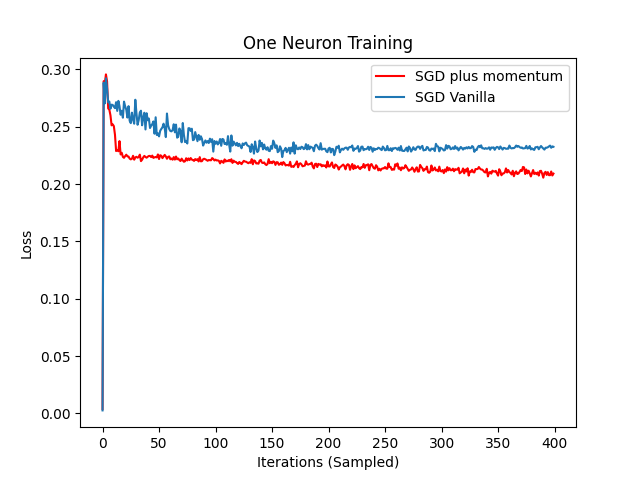
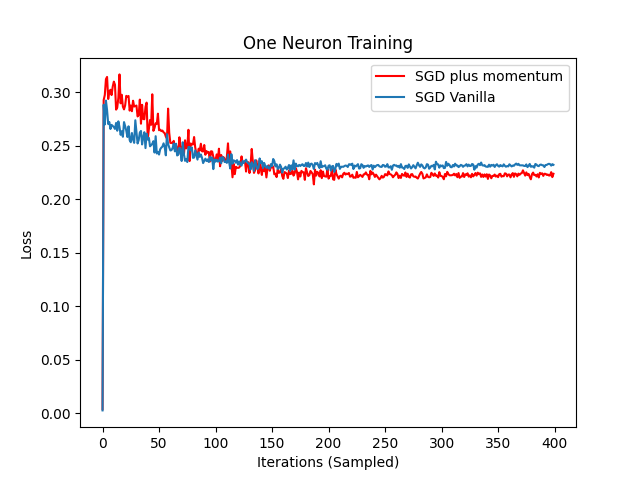
modified

diff --git a/hw/hw3/cgp1.0.8/one_neuron_classifier_sgd_plus.py b/hw/hw3/cgp1.0.8/one_neuron_classifier_sgd_plus.py
@@ -6,7 +6,6 @@ Last Modified: 5 Feb 2022
 
 import random
 import numpy as np
-import sys
 import operator
 import matplotlib.pyplot as plt
 from ComputationalGraphPrimer import *
@@ -20,9 +19,7 @@ class cgpSuperCharged(ComputationalGraphPrimer):
     def __init__(self, mu=0.0, *args, **kwargs):
         super().__init__(*args, **kwargs)
         self.mu = mu
-        self.step_hist = 0
-        self.bias_hist = 0
-
+    
     def backprop_and_update_params_one_neuron_model(
         self, y_error_avg, data_tuple_avg, deriv_sigmoid_avg
     ):
@@ -38,6 +35,10 @@ class cgpSuperCharged(ComputationalGraphPrimer):
         vals_for_input_vars_dict = dict(zip(input_vars, list(data_tuple_avg)))
         vals_for_learnable_params = self.vals_for_learnable_params
 
+        # preparing varibles
+        step_hist = list(np.zeros(len(self.vals_for_learnable_params)))
+        bias_hist = 0
+
         for i, param in enumerate(self.vals_for_learnable_params):
             ## calculate the next step in the parameter hyperplane
 
@@ -48,18 +49,17 @@ class cgpSuperCharged(ComputationalGraphPrimer):
                 * deriv_sigmoid_avg
             )
 
-            step = self.mu * self.step_hist[i] + self.learning_rate * g_tp1
+            step = self.mu * step_hist[i] + self.learning_rate * g_tp1
             self.vals_for_learnable_params[param] += step
 
             # update step_hist
-            self.step_hist[i] = step
+            step_hist[i] = step
 
         ## Bias momentum step
-        self.bias_hist = (
-            self.mu * self.bias_hist
-            + self.learning_rate * y_error_avg * deriv_sigmoid_avg
+        bias_hist = (
+            self.mu * bias_hist + self.learning_rate * y_error_avg * deriv_sigmoid_avg
         )
-        self.bias += self.bias_hist
+        self.bias += bias_hist
 
     def run_training_loop_one_neuron_model(self, training_data):
         """
@@ -68,8 +68,7 @@ class cgpSuperCharged(ComputationalGraphPrimer):
         Modified by: Varun Aggarwal
 
         Modifications:
-        Added step_hist initialization
-        for SGDplusMomentum optimizer
+        None
         """
         self.vals_for_learnable_params = {
             param: random.uniform(0, 1) for param in self.learnable_params
@@ -122,9 +121,6 @@ class cgpSuperCharged(ComputationalGraphPrimer):
         i = 0
         avg_loss_over_literations = 0.0
 
-        # preparing varibles
-        self.step_hist = list(np.zeros(len(self.learnable_params)))
-
         for i in range(self.training_iterations):
             data = data_loader.getbatch()
             data_tuples = data[0]
@@ -161,6 +157,7 @@ class cgpSuperCharged(ComputationalGraphPrimer):
         return loss_running_record
 
 
+# SGD with momentum
 cgp = cgpSuperCharged(
     one_neuron_model=True,
     expressions=["xw=ab*xa+bc*xb+cd*xc+ac*xd"],
@@ -174,6 +171,7 @@ cgp = cgpSuperCharged(
     mu=0.9,
 )
 
+# Vanilla SGD
 cgp_original = ComputationalGraphPrimer(
     one_neuron_model=True,
     expressions=["xw=ab*xa+bc*xb+cd*xc+ac*xd"],
@@ -186,6 +184,7 @@ cgp_original = ComputationalGraphPrimer(
     debug=True,
 )
 
+plt.show(block=True)
 # Loss with SGDmomentum
 cgp.parse_expressions()
 training_data = cgp.gen_training_data()
@@ -204,4 +203,4 @@ plt.legend(["SGD plus momentum", "SGD Vanilla"])
 plt.title("One Neuron Training")
 plt.xlabel("Iterations (Sampled)")
 plt.ylabel("Loss")
-plt.savefig("../output/One_with_momentum.png")
+plt.savefig("../output/one_with_momentum.png")
